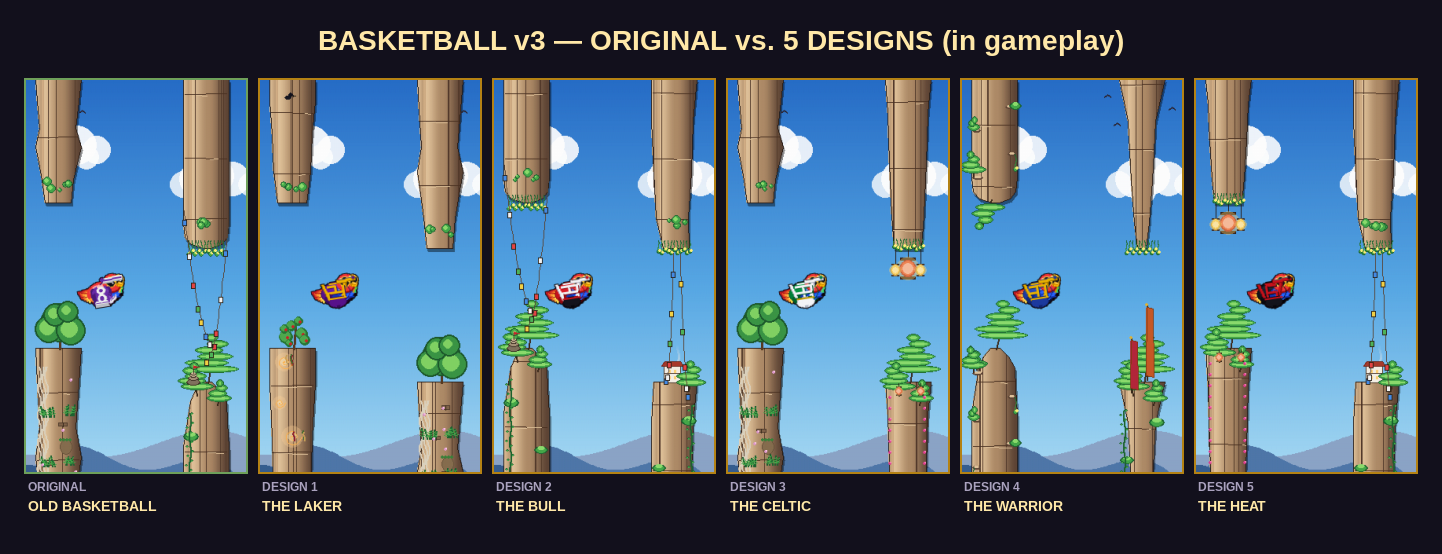
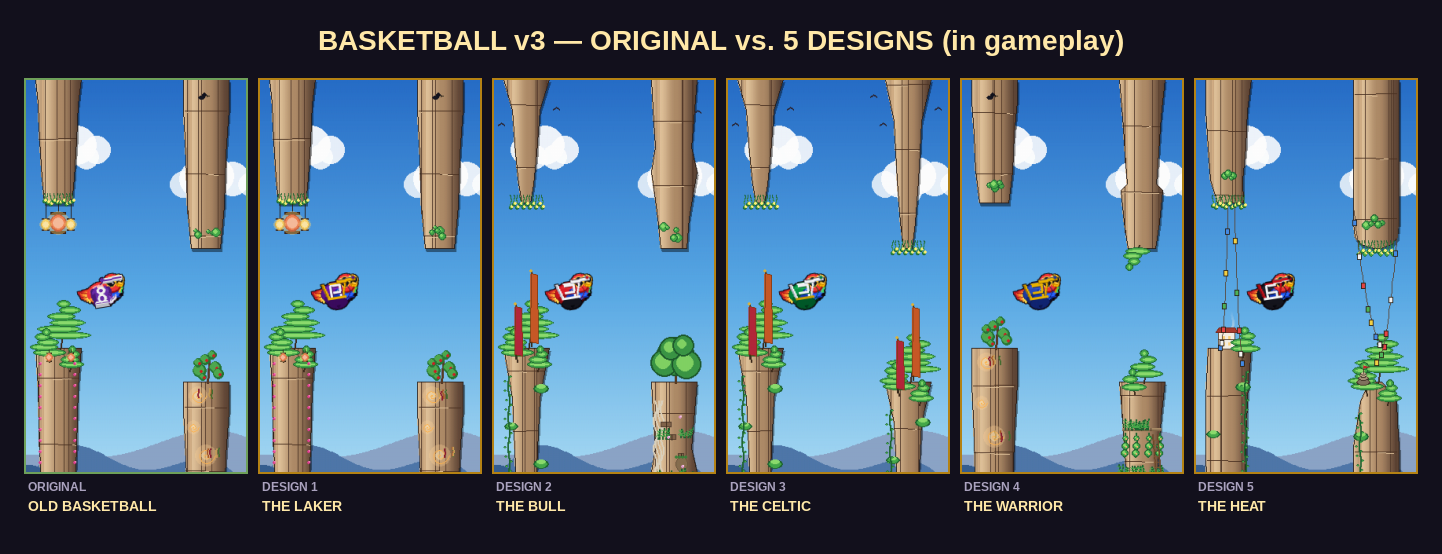
Basketball v3 R2: thinner straps, single digits, distinct shorts per critique
Address C1 art-director feedback: thin shoulder straps (4→2px) to remove cage
look; drop two-digit jersey numbers to single bold digits; make shorts a
distinct shade from jersey body so the waistband reads as a clear divider;
D5 adds white trim to headband and number so they separate from dark body.

Claude-Session: https://claude.ai/code/session_01HafGQfRZVDiGkQqpJPr5Cm

diff --git a/tools/basketball_candidates/_shared.py b/tools/basketball_candidates/_shared.py
@@ -27,11 +27,11 @@ def draw_basketball_kit(
     pygame.draw.ellipse(surf, jersey_d, (BCX-19, BCY-14, 38, 28), 1)
 
     # --- Sleeveless TANK shoulder straps ---------------------------------
-    # Two thick bars frame the chest panel; gaps either side = bare shoulder.
-    pygame.draw.line(surf, strap_d, (BCX-16, BCY-13), (BCX-11, BCY+4), 4)
-    pygame.draw.line(surf, strap,   (BCX-15, BCY-13), (BCX-10, BCY+4), 3)
-    pygame.draw.line(surf, strap_d, (BCX+14, BCY-13), (BCX+9,  BCY+4), 4)
-    pygame.draw.line(surf, strap,   (BCX+13, BCY-13), (BCX+8,  BCY+4), 3)
+    # Two thin diagonals over the shoulders; bare jersey visible between them.
+    pygame.draw.line(surf, strap_d, (BCX-16, BCY-13), (BCX-11, BCY+4), 3)
+    pygame.draw.line(surf, strap,   (BCX-15, BCY-13), (BCX-10, BCY+4), 2)
+    pygame.draw.line(surf, strap_d, (BCX+14, BCY-13), (BCX+9,  BCY+4), 3)
+    pygame.draw.line(surf, strap,   (BCX+13, BCY-13), (BCX+8,  BCY+4), 2)
     # Collar neckline
     pygame.draw.line(surf, strap, (BCX-7, BCY-13), (BCX+5, BCY-13), 2)
 
@@ -39,13 +39,13 @@ def draw_basketball_kit(
     _draw_number(surf, BCX, BCY, number, num_col, num_d)
 
     # --- Hem seam --------------------------------------------------------
-    pygame.draw.ellipse(surf, jersey_d, (BCX-9, BCY+5, 20, 2), 1)
+    pygame.draw.ellipse(surf, jersey_d, (BCX-10, BCY+5, 22, 2), 1)
 
     # --- Baggy shorts (longer + wider than soccer) -----------------------
-    pygame.draw.ellipse(surf, shorts,   (BCX-11, BCY+5, 24, 14))
-    pygame.draw.ellipse(surf, shorts_d, (BCX-11, BCY+5, 24, 14), 1)
-    # Waistband accent line
-    pygame.draw.line(surf, waist, (BCX-10, BCY+6), (BCX+12, BCY+6), 2)
+    pygame.draw.ellipse(surf, shorts,   (BCX-12, BCY+5, 26, 16))
+    pygame.draw.ellipse(surf, shorts_d, (BCX-12, BCY+5, 26, 16), 1)
+    # Waistband accent — 3px so it reads at 40px as the jersey/shorts divider
+    pygame.draw.line(surf, waist, (BCX-11, BCY+6), (BCX+12, BCY+6), 3)
     # Inseam shadow triangle
     poly_fn(surf, shorts_d, [
         (BCX-1, BCY+16), (BCX+3, BCY+16), (BCX+1, BCY+19)

diff --git a/tools/basketball_candidates/design_5.py b/tools/basketball_candidates/design_5.py
@@ -1,7 +1,7 @@
 """Basketball v3 Design 5 — THE HEAT.
 
-Near-black + red. Miami Heat style. Red number "6",
-red headband with black knot, black shorts.
+Near-black + red. Miami Heat style. White number "6",
+red headband with white lower trim + black knot, black shorts with white waistband.
 """
 import pygame
 
@@ -46,13 +46,16 @@ def _paint(surf, _a):
         surf, BCX, BCY, HX, CROWN_Y, _poly,
         jersey_d=_BLACK_D,
         strap=_RED, strap_d=_RED_D,
-        num_col=_RED, num_d=_BLACK_D,
+        num_col=_WHITE, num_d=_BLACK_D,
         number="6",
         shorts=_BLACK, shorts_d=_BLACK_D,
-        waist=_RED,
+        waist=_WHITE,
         band=_RED, band_d=_RED_D,
         knot=_BLACK,
     )
+    # White lower trim on headband so the red band reads against the macaw's
+    # natural red/orange face — separates kit element from plumage.
+    pygame.draw.line(surf, _WHITE, (HX-11, CROWN_Y+9), (HX+9, CROWN_Y+8), 1)
 
 
 build = _make_skin(_paint, base_fn=_base)

diff --git a/tools/basketball_candidates/design_1.py b/tools/basketball_candidates/design_1.py
@@ -46,9 +46,9 @@ def _paint(surf, _a):
         surf, BCX, BCY, HX, CROWN_Y, _poly,
         jersey_d=_PURPLE_D,
         strap=_GOLD, strap_d=_GOLD_D,
-        num_col=_GOLD, num_d=_PURPLE_D,
-        number="24",
-        shorts=_PURPLE, shorts_d=_PURPLE_D,
+        num_col=_WHITE, num_d=_PURPLE_D,
+        number="8",
+        shorts=_PURPLE_D, shorts_d=( 45,  8, 72),
         waist=_GOLD,
         band=_GOLD, band_d=_GOLD_D,
         knot=_PURPLE,

diff --git a/tools/basketball_candidates/design_3.py b/tools/basketball_candidates/design_3.py
@@ -48,8 +48,8 @@ def _paint(surf, _a):
         jersey_d=_GREEN_D,
         strap=_WHITE, strap_d=_WHITE_D,
         num_col=_WHITE, num_d=_GREEN_D,
-        number="33",
-        shorts=_WHITE, shorts_d=_WHITE_D,
+        number="3",
+        shorts=_GREEN_D, shorts_d=(  0, 60, 28),
         waist=_GOLD,
         band=_WHITE, band_d=_WHITE_D,
         knot=_GREEN,

diff --git a/tools/basketball_candidates/design_4.py b/tools/basketball_candidates/design_4.py
@@ -47,8 +47,8 @@ def _paint(surf, _a):
         jersey_d=_BLUE_D,
         strap=_GOLD, strap_d=_GOLD_D,
         num_col=_GOLD, num_d=_BLUE_D,
-        number="30",
-        shorts=_BLUE, shorts_d=_BLUE_D,
+        number="3",
+        shorts=(18, 38, 115), shorts_d=(12, 24, 80),
         waist=_GOLD,
         band=_GOLD, band_d=_GOLD_D,
         knot=_BLUE,

diff --git a/tools/basketball_candidates/design_2.py b/tools/basketball_candidates/design_2.py
@@ -48,9 +48,9 @@ def _paint(surf, _a):
         jersey_d=_RED_D,
         strap=_WHITE, strap_d=_WHITE_D,
         num_col=_WHITE, num_d=_RED_D,
-        number="23",
+        number="3",
         shorts=_BLACK, shorts_d=_BLACK_D,
-        waist=_RED,
+        waist=_WHITE,
         band=_WHITE, band_d=_WHITE_D,
         knot=_RED,
     )
